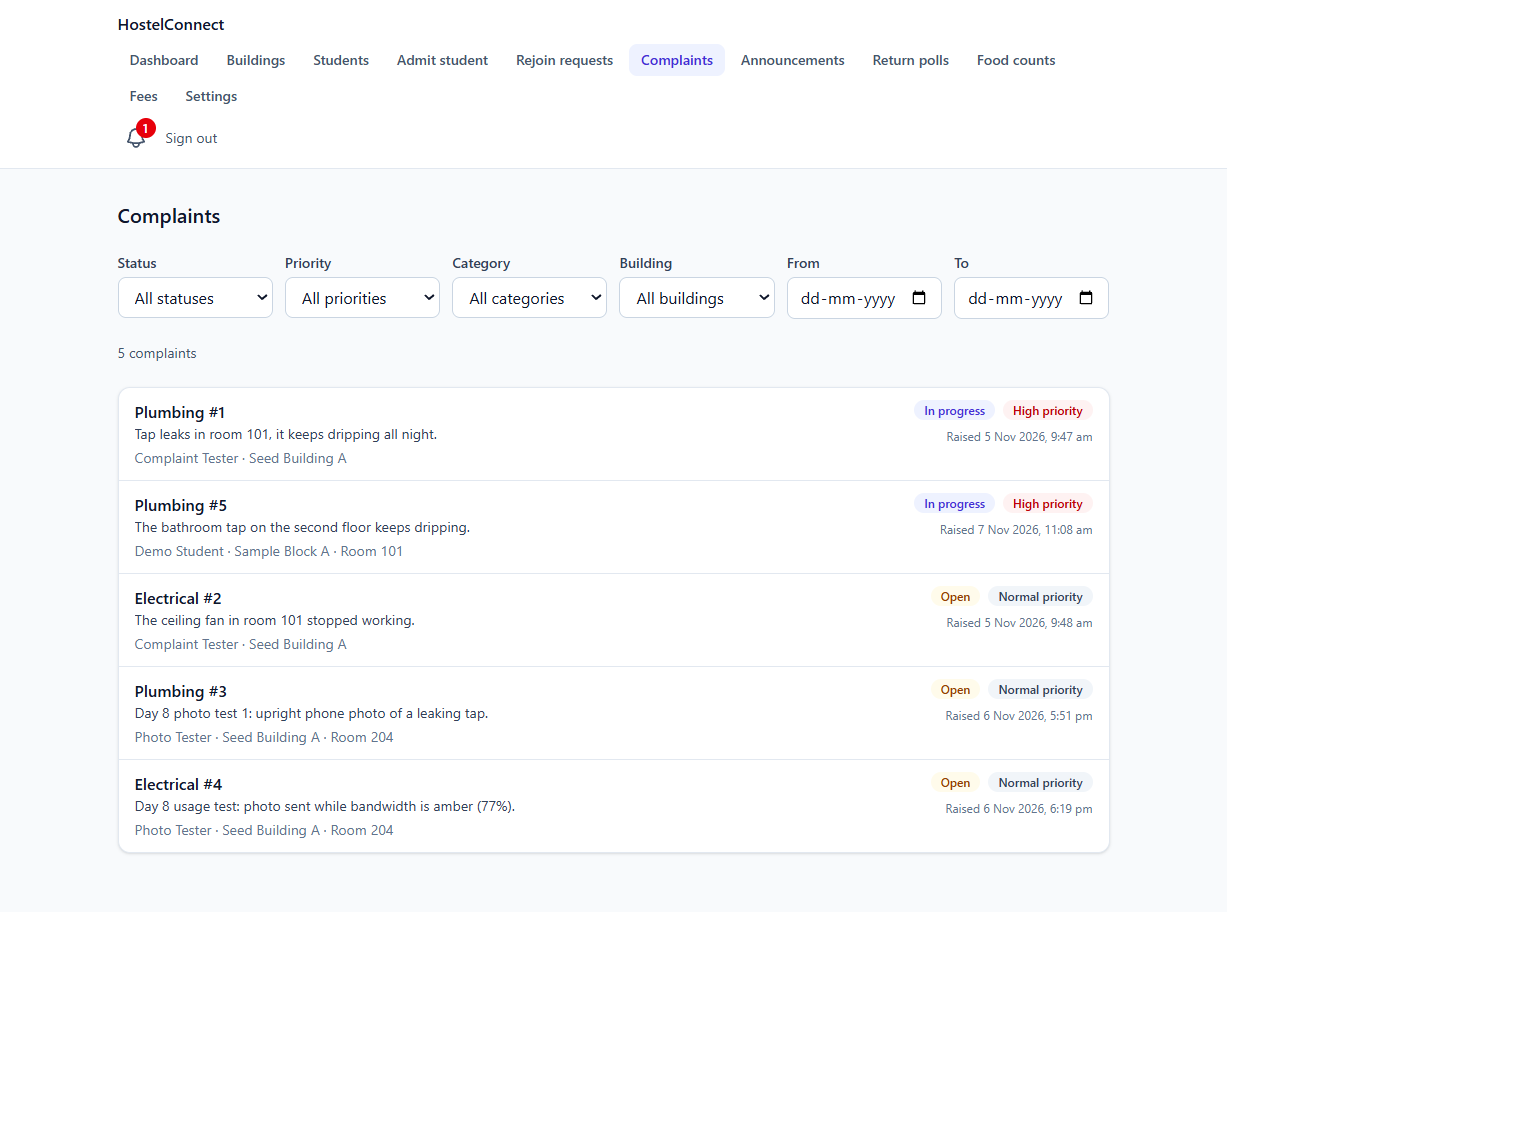
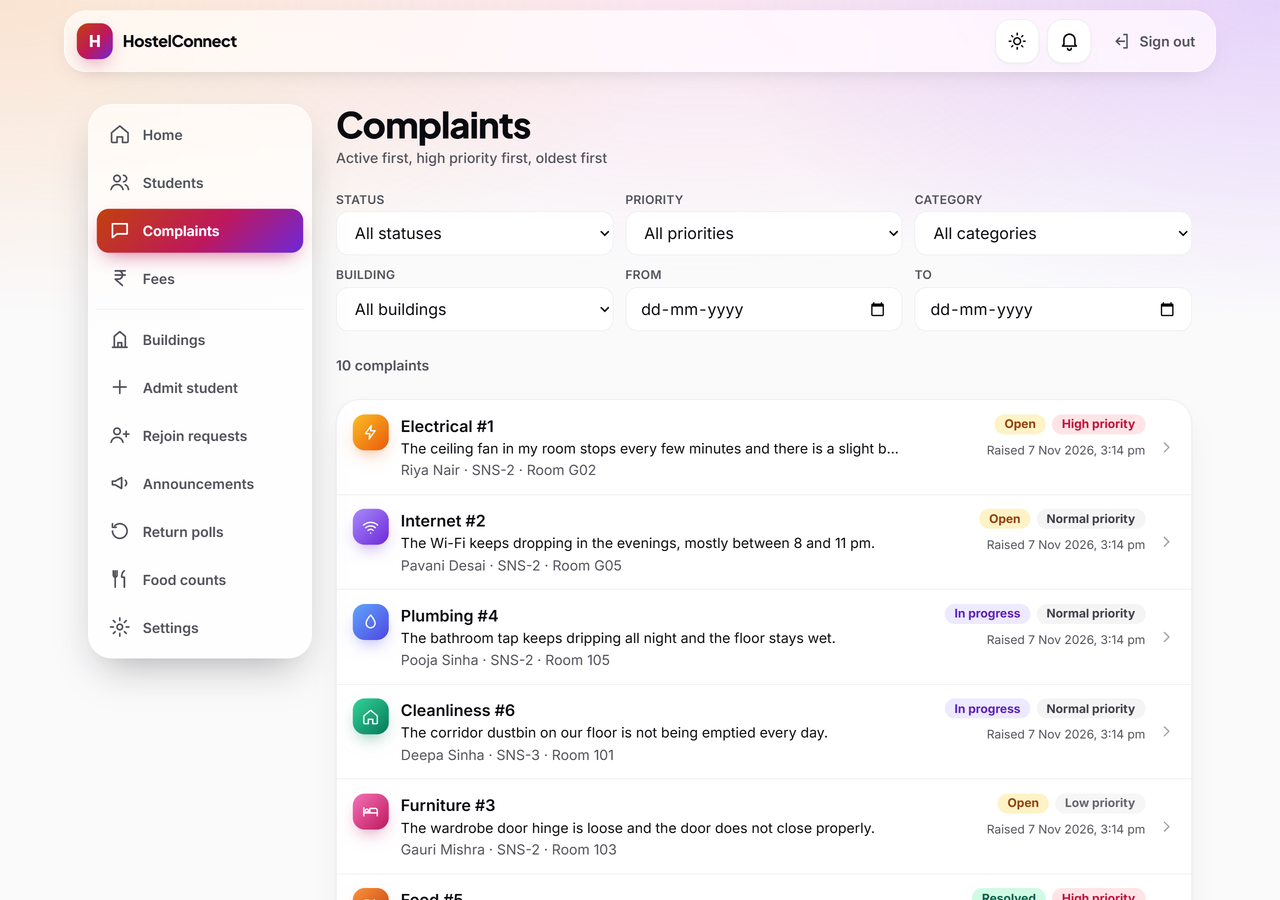
docs: record the redesign deployment and retake the screenshots
docs/progress.md records the deployment of pull request #14 (merge
250c4e9, CI run #75 green, the new client served). The README
screenshots are retaken from the local demo data: the owner's dashboard
and complaint list in light mode at laptop width (1280x900), the
student's home and fees in dark mode at phone size. Captions updated to
match.

diff --git a/README.md b/README.md
@@ -61,26 +61,27 @@ icons) are in `client/src/ui/`.
 
 ## Screenshots
 
-All from a local development database with fake students and a demo UPI ID. They were
-taken before the redesign and still show the earlier look.
+All from a local development database with fake students and a demo UPI ID. The owner's
+pages are shown in light mode on a laptop, the student's in dark mode on a phone.
 
-**The owner's dashboard:** students per building, the open return poll, active complaints,
-rejoin requests, fees due and overdue, and storage and bandwidth use, in one request.
+**The owner's dashboard:** how full the beds are, what needs attention (high-priority
+complaints, overdue fees), quick actions, then students per building and the return poll,
+with complaints, rejoin requests, fees and storage use further down, all in one request.
 
-![Owner dashboard](docs/screenshots/owner-dashboard.png)
+![Owner dashboard in light mode, with the sidebar menu](docs/screenshots/owner-dashboard.png)
 
 **The owner's complaint list:** active first, high priority first, oldest first, with
 filters by status, priority, category, building and date.
 
-![Owner complaint list](docs/screenshots/owner-complaints.png)
+![Owner complaint list in light mode](docs/screenshots/owner-complaints.png)
 
-**A student's phone:** the home page (an urgent notice, the return poll, their complaints and
-fees) and My fees (the balance, the owner's UPI ID with a QR drawn from it, and each due
-date).
+**A student's phone:** the home page (a greeting, pinned and urgent notices, then their
+complaints) and My fees (what is due now, the next due date, and the owner's UPI ID with a
+QR drawn from it), with the tab bar at the bottom.
 
 <p>
-  <img src="docs/screenshots/student-home.png" alt="Student home page on a phone" width="300">
-  <img src="docs/screenshots/student-fees.png" alt="Student fees page on a phone" width="300">
+  <img src="docs/screenshots/student-home.png" alt="Student home page on a phone in dark mode" width="300">
+  <img src="docs/screenshots/student-fees.png" alt="Student fees page on a phone in dark mode" width="300">
 </p>
 
 ## Architecture

diff --git a/docs/progress.md b/docs/progress.md
@@ -964,6 +964,18 @@ browser is signed in as the owner.
 
 ### Notes for later days
 
-- The README screenshots still show the earlier look; retake them after deploying.
+- README screenshots retaken by Nikhil after the deployment (owner pages in light at
+  laptop width, student pages in dark at phone size, local demo data).
 - Not checked on a real phone yet (only the browser's phone-size view).
-- Deployed: not yet.
+- Deployed on 2026-11-07 (see "Deployment" below).
+
+### Deployment (2026-11-07, UTC)
+
+| Step | Evidence |
+|---|---|
+| Pushed on `redesign-foundations` | `202a686` (code) and `c38132a` (docs), author nick10-05, no co-author line |
+| Before the merge | No migration, so no backup-then-migrate step; no new Render or GitHub settings |
+| Merge into `main` | Through GitHub pull request #14, as merge commit `250c4e9` at 11:54, opened and merged by Nikhil |
+| CI on `main` | Run #75 on `250c4e9`: green (1 min 12 s) |
+| Live site | `/api/health` answers `{"status":"ok"}`; the page now carries the light/dark script from `index.html` (`hc-theme`), which the earlier build did not have, so the new client is served. Checked with plain requests only: no login, no data touched |
+| Owner check | Not done yet: the owner looks at the live site on a phone, in light and dark, and tries the Automatic/Light/Dark switch |
